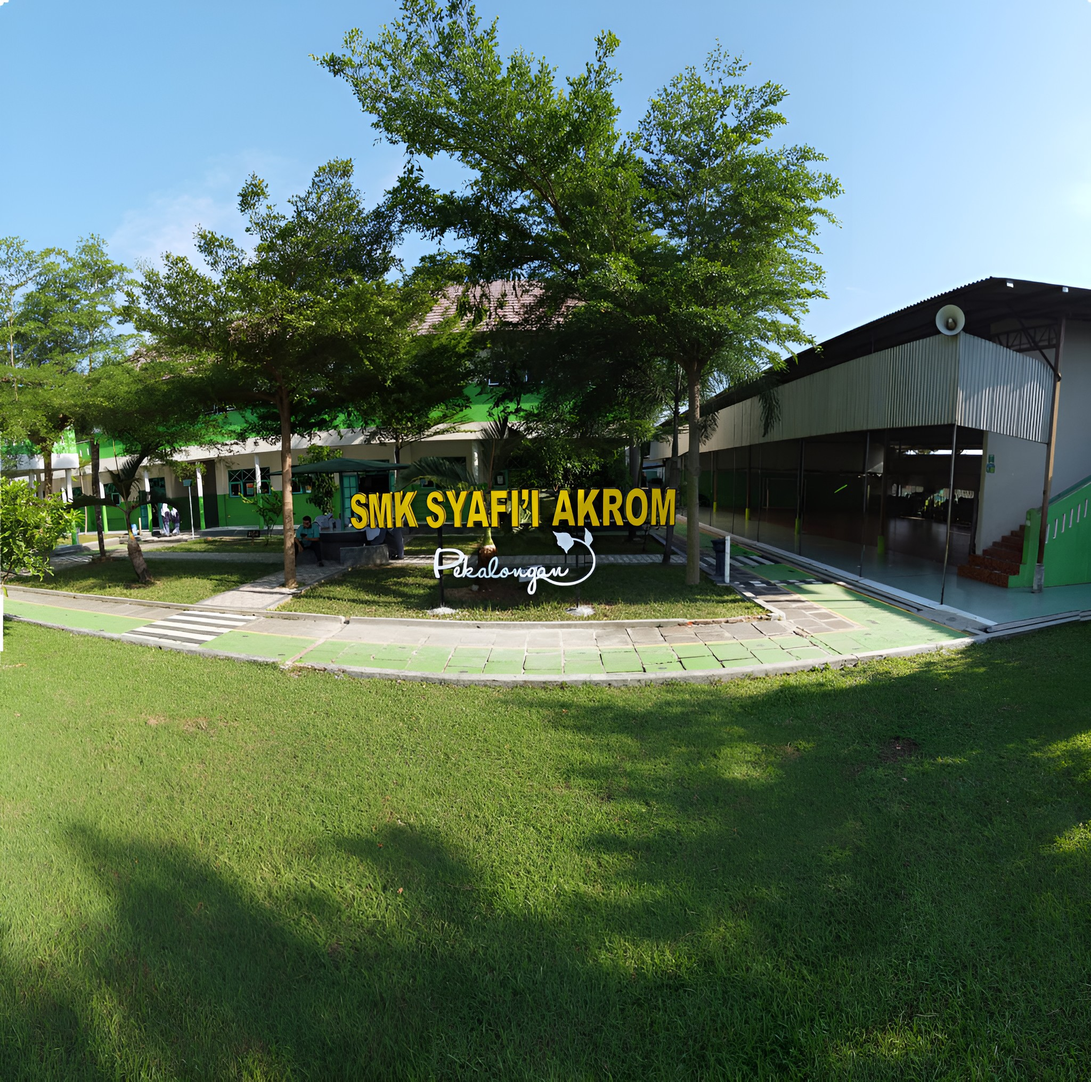
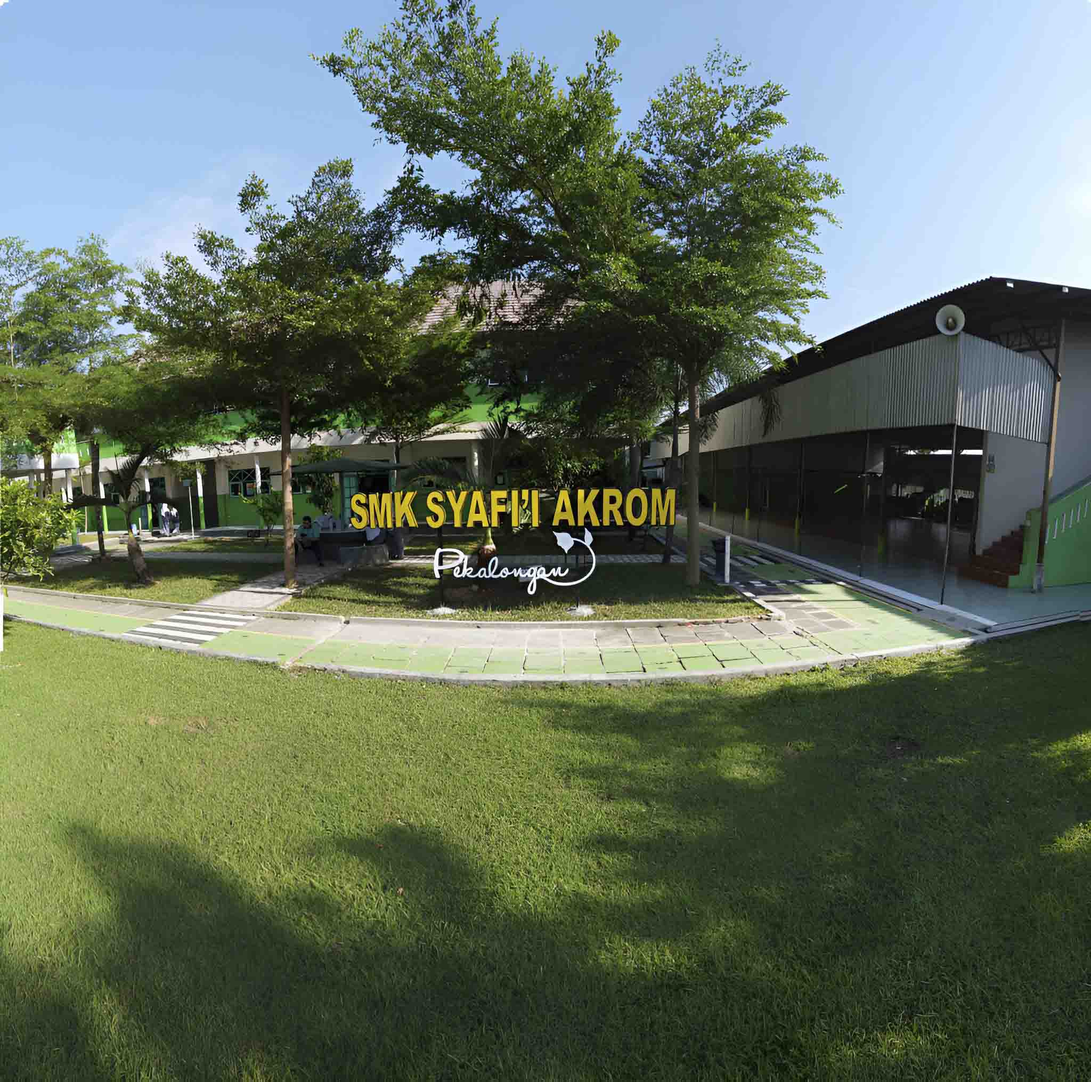
fix

diff --git a/resources/views/admin/layouts/app.blade.php b/resources/views/admin/layouts/app.blade.php
@@ -8,7 +8,6 @@
     
     <!-- CSS Inti Mazer & Icons -->
     <link rel="stylesheet" href="{{ asset('mazer/compiled/css/app.css') }}">
-    <link rel="stylesheet" href="{{ asset('mazer/compiled/css/app-dark.css') }}">
     <link rel="stylesheet" href="{{ asset('mazer/compiled/css/iconly.css') }}">
     <link rel="stylesheet" href="{{ asset('mazer/extensions/bootstrap-icons/font/bootstrap-icons.css') }}">
     <link rel="stylesheet" href="{{ asset('mazer/extensions/@fortawesome/fontawesome-free/css/all.min.css') }}">
@@ -82,7 +81,10 @@
     @stack('styles')
 </head>
 <body>
-    <script src="{{ asset('mazer/static/js/initTheme.js') }}"></script>
+<script>
+    document.documentElement.setAttribute('data-bs-theme', 'light');
+    localStorage.setItem('theme', 'light');
+</script>
     
     <div id="app">
         <!-- Sidebar Navigation -->
@@ -96,39 +98,6 @@
                                     <h4 class="text-primary mb-0 fw-bold">E-Jurnal SMKSA</h4>
                                 </div>
                             </a>
-                        </div>
-                        
-                        <!-- Theme Toggle Dark / Light -->
-                        <div class="theme-toggle d-flex gap-2 align-items-center mt-2">
-                            <svg xmlns="http://www.w3.org/2000/svg" xmlns:xlink="http://www.w3.org/1999/xlink" aria-hidden="true"
-                                role="img" class="iconify iconify--system-uicons" width="20" height="20"
-                                preserveAspectRatio="xMidYMid meet" viewBox="0 0 21 21">
-                                <g fill="none" fill-rule="evenodd" stroke="currentColor" stroke-linecap="round"
-                                    stroke-linejoin="round">
-                                    <path
-                                        d="M10.5 14.5c2.219 0 4-1.763 4-3.982a4.003 4.003 0 0 0-4-4.018c-2.219 0-4 1.781-4 4c0 2.219 1.781 4 4 4zM4.136 4.136L5.55 5.55m9.9 9.9l1.414 1.414M1.5 10.5h2m14 0h2M4.135 16.863L5.55 15.45m9.899-9.9l1.414-1.415M10.5 19.5v-2m0-14v-2"
-                                        opacity=".3"></path>
-                                    <g transform="translate(-210 -1)">
-                                        <path d="M220.5 2.5v2m6.5.5l-1.5 1.5"></path>
-                                        <circle cx="220.5" cy="11.5" r="4"></circle>
-                                        <path d="m214 5l1.5 1.5m5 14v-2m6.5-.5l-1.5-1.5M214 18l1.5-1.5m-4-5h2m14 0h2"></path>
-                                    </g>
-                                </g>
-                            </svg>
-                            <div class="form-check form-switch fs-6">
-                                <input class="form-check-input me-0" type="checkbox" id="toggle-dark" style="cursor: pointer">
-                                <label class="form-check-label"></label>
-                            </div>
-                            <svg xmlns="http://www.w3.org/2000/svg" xmlns:xlink="http://www.w3.org/1999/xlink" aria-hidden="true"
-                                role="img" class="iconify iconify--mdi" width="20" height="20" preserveAspectRatio="xMidYMid meet"
-                                viewBox="0 0 24 24">
-                                <path fill="currentColor"
-                                    d="m17.75 4.09l-2.53 1.94l.91 3.06l-2.63-1.81l-2.63 1.81l.91-3.06l-2.53-1.94L12.44 4l1.06-3l1.06 3l3.19.09m3.5 6.91l-1.64 1.25l.59 1.98l-1.7-1.17l-1.7 1.17l.59-1.98L15.75 11l2.06-.05L18.5 9l.69 1.95l2.06.05m-2.28 4.95c.83-.08 1.72 1.1 1.19 1.85c-.32.45-.66.87-1.08 1.27C15.17 23 8.84 23 4.94 19.07c-3.91-3.9-3.91-10.24 0-14.14c.4-.4.82-.76 1.27-1.08c.75-.53 1.93.36 1.85 1.19c-.27 2.86.69 5.83 2.89 8.02a9.96 9.96 0 0 0 8.02 2.89m-1.64 2.02a12.08 12.08 0 0 1-7.8-3.47c-2.17-2.19-3.33-5-3.49-7.82c-2.81 3.14-2.7 7.96.31 10.98c3.02 3.01 7.84 3.12 10.98.31Z">
-                                </path>
-                            </svg>
-                        </div>
-                        <div class="sidebar-toggler x">
-                            <a href="#" class="sidebar-hide d-xl-none d-block"><i class="bi bi-x bi-middle"></i></a>
                         </div>
                     </div>
                 </div>

diff --git a/resources/views/admin/dashboard.blade.php b/resources/views/admin/dashboard.blade.php
@@ -5,7 +5,6 @@
 
 @push('styles')
 <style>
-    /* Stats Icon - pastikan icon berada di dalam kotak/lingkaran */
     .stats-icon {
         width: 48px;
         height: 48px;
@@ -64,7 +63,7 @@
         line-height: 1;
     }
 
-    /* Profile card - simetris dengan card lain */
+    /* Profile card */
     .profile-card .avatar.avatar-xl {
         width: 64px;
         height: 64px;
@@ -76,9 +75,9 @@
 @section('content')
 <section class="row">
     <!-- Kolom Kiri: Metrik Utama, Grafik & Tabel Aktivitas -->
-    <div class="col-12 col-lg-9">
+    <!-- <div class="col-12 col-lg-9"> -->
         <!-- 1. Row Kartu Statistik Mazer Baris 1 -->
-        <div class="row">
+        <!-- <div class="row">
             <div class="col-6 col-lg-3 col-md-6">
                 <div class="card shadow-sm hover-elevate">
                     <div class="card-body px-4 py-4-5">
@@ -100,9 +99,9 @@
                         </div>
                     </div>
                 </div>
-            </div>
+            </div> -->
 
-            <div class="col-6 col-lg-3 col-md-6">
+            <!-- <div class="col-6 col-lg-3 col-md-6">
                 <div class="card shadow-sm hover-elevate">
                     <div class="card-body px-4 py-4-5">
                         <div class="row">
@@ -123,9 +122,9 @@
                         </div>
                     </div>
                 </div>
-            </div>
+            </div> -->
 
-            <div class="col-6 col-lg-3 col-md-6">
+            <!-- <div class="col-6 col-lg-3 col-md-6">
                 <div class="card shadow-sm hover-elevate">
                     <div class="card-body px-4 py-4-5">
                         <div class="row">
@@ -146,9 +145,9 @@
                         </div>
                     </div>
                 </div>
-            </div>
+            </div> -->
 
-            <div class="col-6 col-lg-3 col-md-6">
+            <!-- <div class="col-6 col-lg-3 col-md-6">
                 <div class="card shadow-sm hover-elevate">
                     <div class="card-body px-4 py-4-5">
                         <div class="row">
@@ -170,10 +169,10 @@
                     </div>
                 </div>
             </div>
-        </div>
+        </div> -->
 
         <!-- 2. Row Kartu Statistik Baris 2 -->
-        <div class="row">
+        <!-- <div class="row">
             <div class="col-6 col-lg-4 col-md-6">
                 <div class="card shadow-sm bg-light-info border border-info border-opacity-25">
                     <div class="card-body py-3 px-3">
@@ -221,7 +220,7 @@
                     </div>
                 </div>
             </div>
-        </div>
+        </div> -->
 
         <!-- 3. Grafik Aktivitas Presensi ApexCharts -->
         <div class="row">
@@ -299,9 +298,9 @@
     </div>
 
     <!-- Kolom Kanan: Profil, Donut Chart Gender, Jam Pelajaran & Quick Menu -->
-    <div class="col-12 col-lg-3">
+    <!-- <div class="col-12 col-lg-3"> -->
         <!-- Profil Card -->
-        <div class="card shadow-sm profile-card">
+        <!-- <div class="card shadow-sm profile-card">
             <div class="card-body py-4 px-4">
                 <div class="d-flex align-items-center">
                     <div class="bg-primary text-white rounded-circle shadow" style="width: 64px; height: 64px; min-width: 64px; display: flex; align-items: center; justify-content: center;">
@@ -324,7 +323,7 @@
                     </div>
                 </div>
             </div>
-        </div>
+        </div> -->
 
         <!-- Donut Chart Gender Siswa -->
         <div class="card shadow-sm">

diff --git a/app/Http/Controllers/Admin/GuruController.php b/app/Http/Controllers/Admin/GuruController.php
@@ -180,7 +180,6 @@ class GuruController extends Controller
             }
 
             // Menyusun Pesan Response
-            // Menyusun Pesan Response
             $pesanBerhasil = "Berhasil mengimport {$insertedCount} data pengajar/staf.";
 
             if (!empty($warnings)) {
@@ -205,7 +204,7 @@ class GuruController extends Controller
      */
     public function downloadTemplate()
     {
-        $filePath = public_path('templates/template_guru.xlsx');
+        $filePath = public_path('template/template_guru.xlsx');
 
         if (file_exists($filePath)) {
             return response()->download($filePath);
